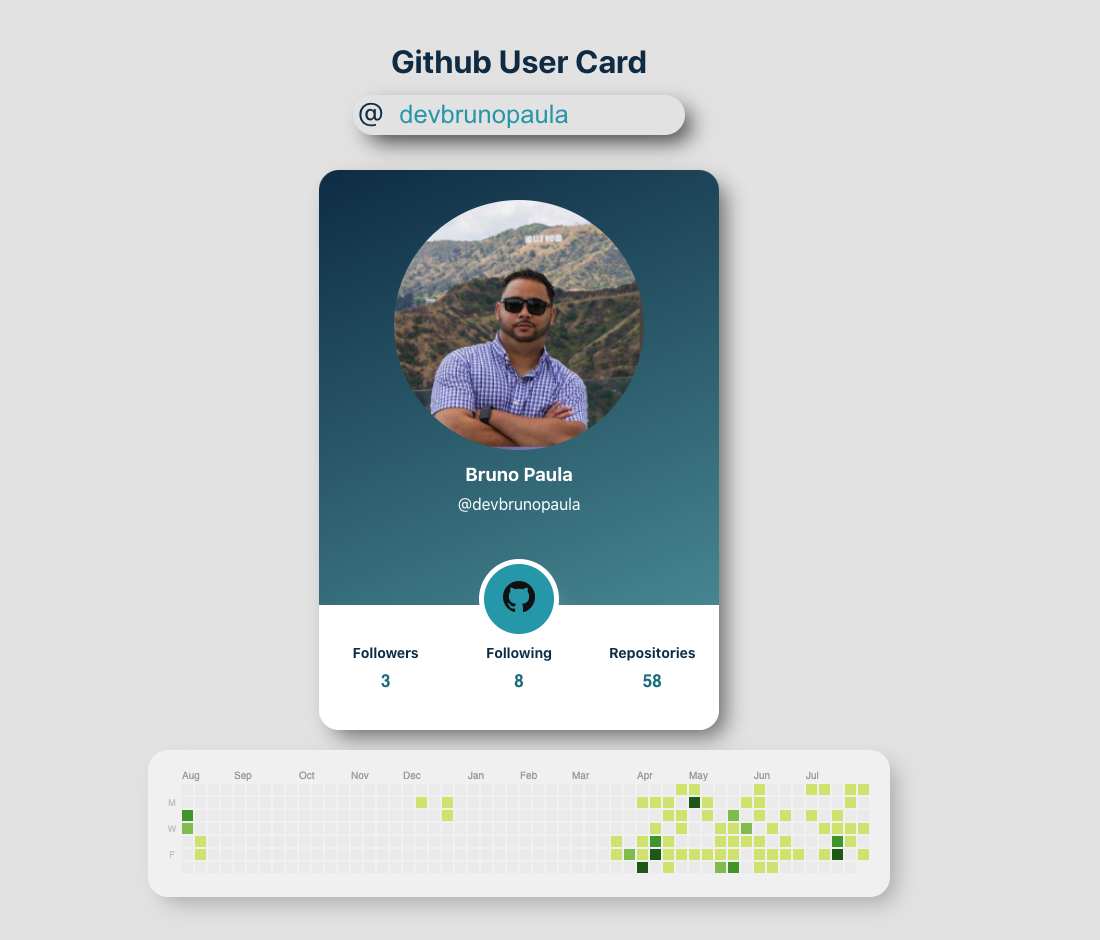
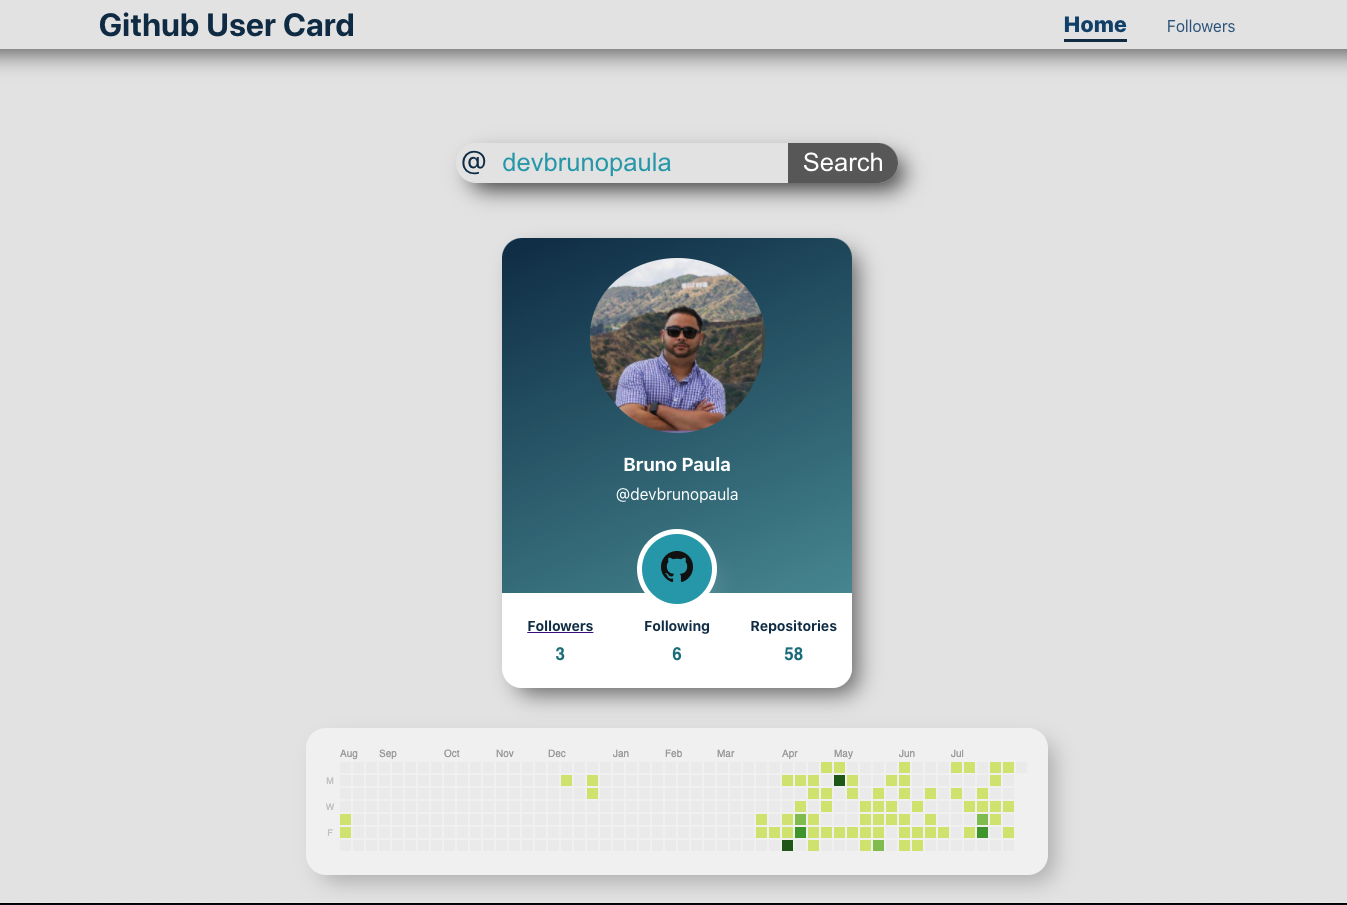
Added Search Bar, Search Button followes stats and followers name

Changed region(s): [[0.0, 0.0, 1.0, 1.0]]

diff --git a/src/components/user/User.jsx b/src/components/user/User.jsx
@@ -2,21 +2,80 @@ import React, { Component } from "react"
 import "./user.css"
 import GitHubLogo from "../../assets/imgages/github-logo.png"
 import { Link } from "react-router-dom"
+import Axios from "axios"
 const defaultAvatar = "https://www.w3schools.com/howto/img_avatar.png"
 
 class User extends Component {
-  componentDidMount() {}
+  state = {
+    user: {},
+  }
+
+  getUserData = () => {
+    if (window.location.pathname === "/") return
+    Axios.get(this.props.data.url).then(res =>
+      this.setState({ user: res.data })
+    )
+  }
+
+  componentDidMount() {
+    this.getUserData()
+  }
 
   render() {
-    const {
-      avatar_url,
-      name,
-      login,
-      html_url,
-      followers,
-      following,
-      public_repos: repo,
-    } = this.props.data
+    const HomeScreen = () => {
+      return (
+        <>
+          <div className='user__info'>
+            <div className='user__Followers user__stats'>
+              <h3>Followers</h3>
+              <Link
+                to={{
+                  pathname: "/followers",
+                  search: `?${this.props.data.login}`,
+                }}
+              >
+                <p>{this.props.data.followers}</p>
+              </Link>
+            </div>
+            <div className='user__Following user__stats'>
+              <h3>Following</h3>
+              <p>{this.props.data.following}</p>
+            </div>
+            <div className='user__Repositories user__stats'>
+              <h3>Repositories</h3>
+              <p>{this.props.data.public_repos}</p>
+            </div>
+          </div>
+        </>
+      )
+    }
+
+    const FollowerScreen = () => {
+      return (
+        <>
+          <div className='user__info'>
+            <div className='user__Followers user__stats'>
+              <h3>Followers</h3>
+              <Link
+                to={{
+                  pathname: "/followers",
+                }}
+              >
+                <p>{this.state.user.followers}</p>
+              </Link>
+            </div>
+            <div className='user__Following user__stats'>
+              <h3>Following</h3>
+              <p>{this.state.user.following}</p>
+            </div>
+            <div className='user__Repositories user__stats'>
+              <h3>Repositories</h3>
+              <p>{this.state.user.public_repos}</p>
+            </div>
+          </div>
+        </>
+      )
+    }
 
     return (
       <>
@@ -24,42 +83,37 @@ class User extends Component {
           <div className='user__container'>
             <img
               className='user__avatar'
-              src={avatar_url ? avatar_url : defaultAvatar}
+              src={
+                this.props.data.avatar_url
+                  ? this.props.data.avatar_url
+                  : defaultAvatar
+              }
               alt='avatar'
             />
 
             <div className='user__title--container'>
-              <h3>{name}</h3>
-              <p>@{login}</p>
+              <h3>
+                {window.location.pathname === "/followers"
+                  ? this.state.user.name
+                  : this.props.data.name}
+              </h3>
+              <p>@{this.props.data.login}</p>
               <button
                 className='user__link--button'
-                onClick={() => (window.location.href = html_url)}
+                onClick={() =>
+                  (window.location.href = this.props.data.html_url)
+                }
               >
                 <img src={GitHubLogo} alt='github logo' />
               </button>
             </div>
           </div>
-          <div className='user__info'>
-            <div className='user__Followers user__stats'>
-              <Link
-                to={{
-                  pathname: "/followers",
-                  search: `?${login}`,
-                }}
-              >
-                <h3>Followers</h3>
-              </Link>
-              <p>{followers}</p>
-            </div>
-            <div className='user__Following user__stats'>
-              <h3>Following</h3>
-              <p>{following}</p>
-            </div>
-            <div className='user__Repositories user__stats'>
-              <h3>Repositories</h3>
-              <p>{repo}</p>
-            </div>
-          </div>
+
+          {window.location.pathname === "/" ? (
+            <HomeScreen />
+          ) : (
+            <FollowerScreen />
+          )}
         </div>
       </>
     )

diff --git a/src/components/Home/Home.jsx b/src/components/Home/Home.jsx
@@ -4,11 +4,19 @@ import User from "../user/User"
 
 class Home extends React.Component {
   state = {
-    search: "",
+    search: "devbrunopaula",
+    status: true,
   }
   handleChange = e => {
     const inputValue = e.target.value
     this.setState({ search: inputValue })
+    this.setState({ status: false })
+  }
+
+  handleSubtmit = e => {
+    e.preventDefault()
+    this.props.fetchUser()
+    this.setState({ status: true })
   }
 
   componentDidUpdate(prevProps, prevState) {
@@ -16,28 +24,36 @@ class Home extends React.Component {
       this.props.handleInputChange(this.state.search)
     }
   }
+
   render() {
     return (
       <div className='app'>
-        <form>
+        <form onSubmit={this.handleSubtmit}>
           <div className='user__searchConainter'>
             <input
               className='user__searchInput'
               name='search'
-              type='search'
+              type='text'
               results={5}
               placeholder='Search a User...'
               value={this.state.search}
               onChange={this.handleChange}
             />
+            <button
+              onClick={e => this.props.handleInputChange}
+              className='app__search--button'
+              type='submit'
+            >
+              Search
+            </button>
           </div>
         </form>
         <User data={this.props.user} />
 
         <div className='app__status'>
-          {this.props.searchedUser.length > 1 ? (
+          {this.state.status ? (
             <img
-              src={`http://ghchart.rshah.org/${this.props.searchedUser}`}
+              src={`http://ghchart.rshah.org/${this.state.search}`}
               alt={`${this.props.searchedUser}'s Github chart`}
             />
           ) : (

diff --git a/src/App.js b/src/App.js
@@ -36,11 +36,11 @@ class App extends React.Component {
   componentDidMount() {
     this.fetchUser()
   }
-  componentDidUpdate(prevProps, prevState) {
-    if (this.state.searchedUser !== prevState.searchedUser) {
-      this.fetchUser()
-    }
-  }
+  // componentDidUpdate(prevProps, prevState) {
+  //   if (this.state.searchedUser !== prevState.searchedUser) {
+  //     // this.fetchUser()
+  //   }
+  // }
 
   render() {
     return (
@@ -55,6 +55,7 @@ class App extends React.Component {
               user={this.state.user}
               searchedUser={this.state.searchedUser}
               handleInputChange={this.handleInputChange}
+              fetchUser={this.fetchUser}
             />
           </Route>
         </Switch>

diff --git a/src/components/Followers/Followers.jsx b/src/components/Followers/Followers.jsx
@@ -9,7 +9,6 @@ class Followers extends React.Component {
     loading: false,
   }
   fetchFollowers = async () => {
-    console.log(this.props.searchedUser)
     try {
       this.setState({ loading: true })
       const response = await gitHubApi.get(
@@ -30,10 +29,10 @@ class Followers extends React.Component {
   }
 
   render() {
-    console.log(this.state.followers)
     return (
       <>
         <div className='followers'>
+          <h1 className='followers__title'>Followers</h1>
           <div className='followers__container'>
             {this.state.followers.length < 0 ? (
               <h1>Loading</h1>

diff --git a/src/components/Home/home.css b/src/components/Home/home.css
@@ -27,9 +27,25 @@
   display: inline-block;
   height: 40px;
   font-size: 1.6rem;
-  padding: 1rem;
+  /* padding: 1rem; */
   background-color: transparent;
   color: var(--cardButton);
   outline: none;
   border: none;
+}
+
+.app__search--button {
+  height: 40px;
+  width: 110px;
+  /* padding: 1rem; */
+  border: none;
+  background: rgb(107, 106, 106);
+  font-size: 1.6rem;
+  border-radius: 0 20px 20px 0;
+  color: white;
+  outline: none;
+}
+
+.app__search--button:hover {
+  background: rgb(92, 90, 90);
 }

diff --git a/src/components/user/user.css b/src/components/user/user.css
@@ -52,10 +52,12 @@
   color: white;
   width: 100%;
   position: relative;
-  /* top: -2px; */
+  /* top: px; */
   /* padding-top: 35px; */
 }
-
+.user__title--container h3 {
+  padding-top: 20px;
+}
 .user__title--container p {
   padding: 10px 0;
 }
@@ -66,7 +68,7 @@
   width: 80px;
   border-radius: 50%;
   position: relative;
-  bottom: -36px;
+  bottom: -16px;
   border: 0;
   outline: none;
   cursor: pointer;

diff --git a/src/components/Followers/followers.css b/src/components/Followers/followers.css
@@ -11,3 +11,7 @@
 .user {
   margin: 20px auto;
 }
+
+.followers__title {
+  color: var(--cardTop);
+}
